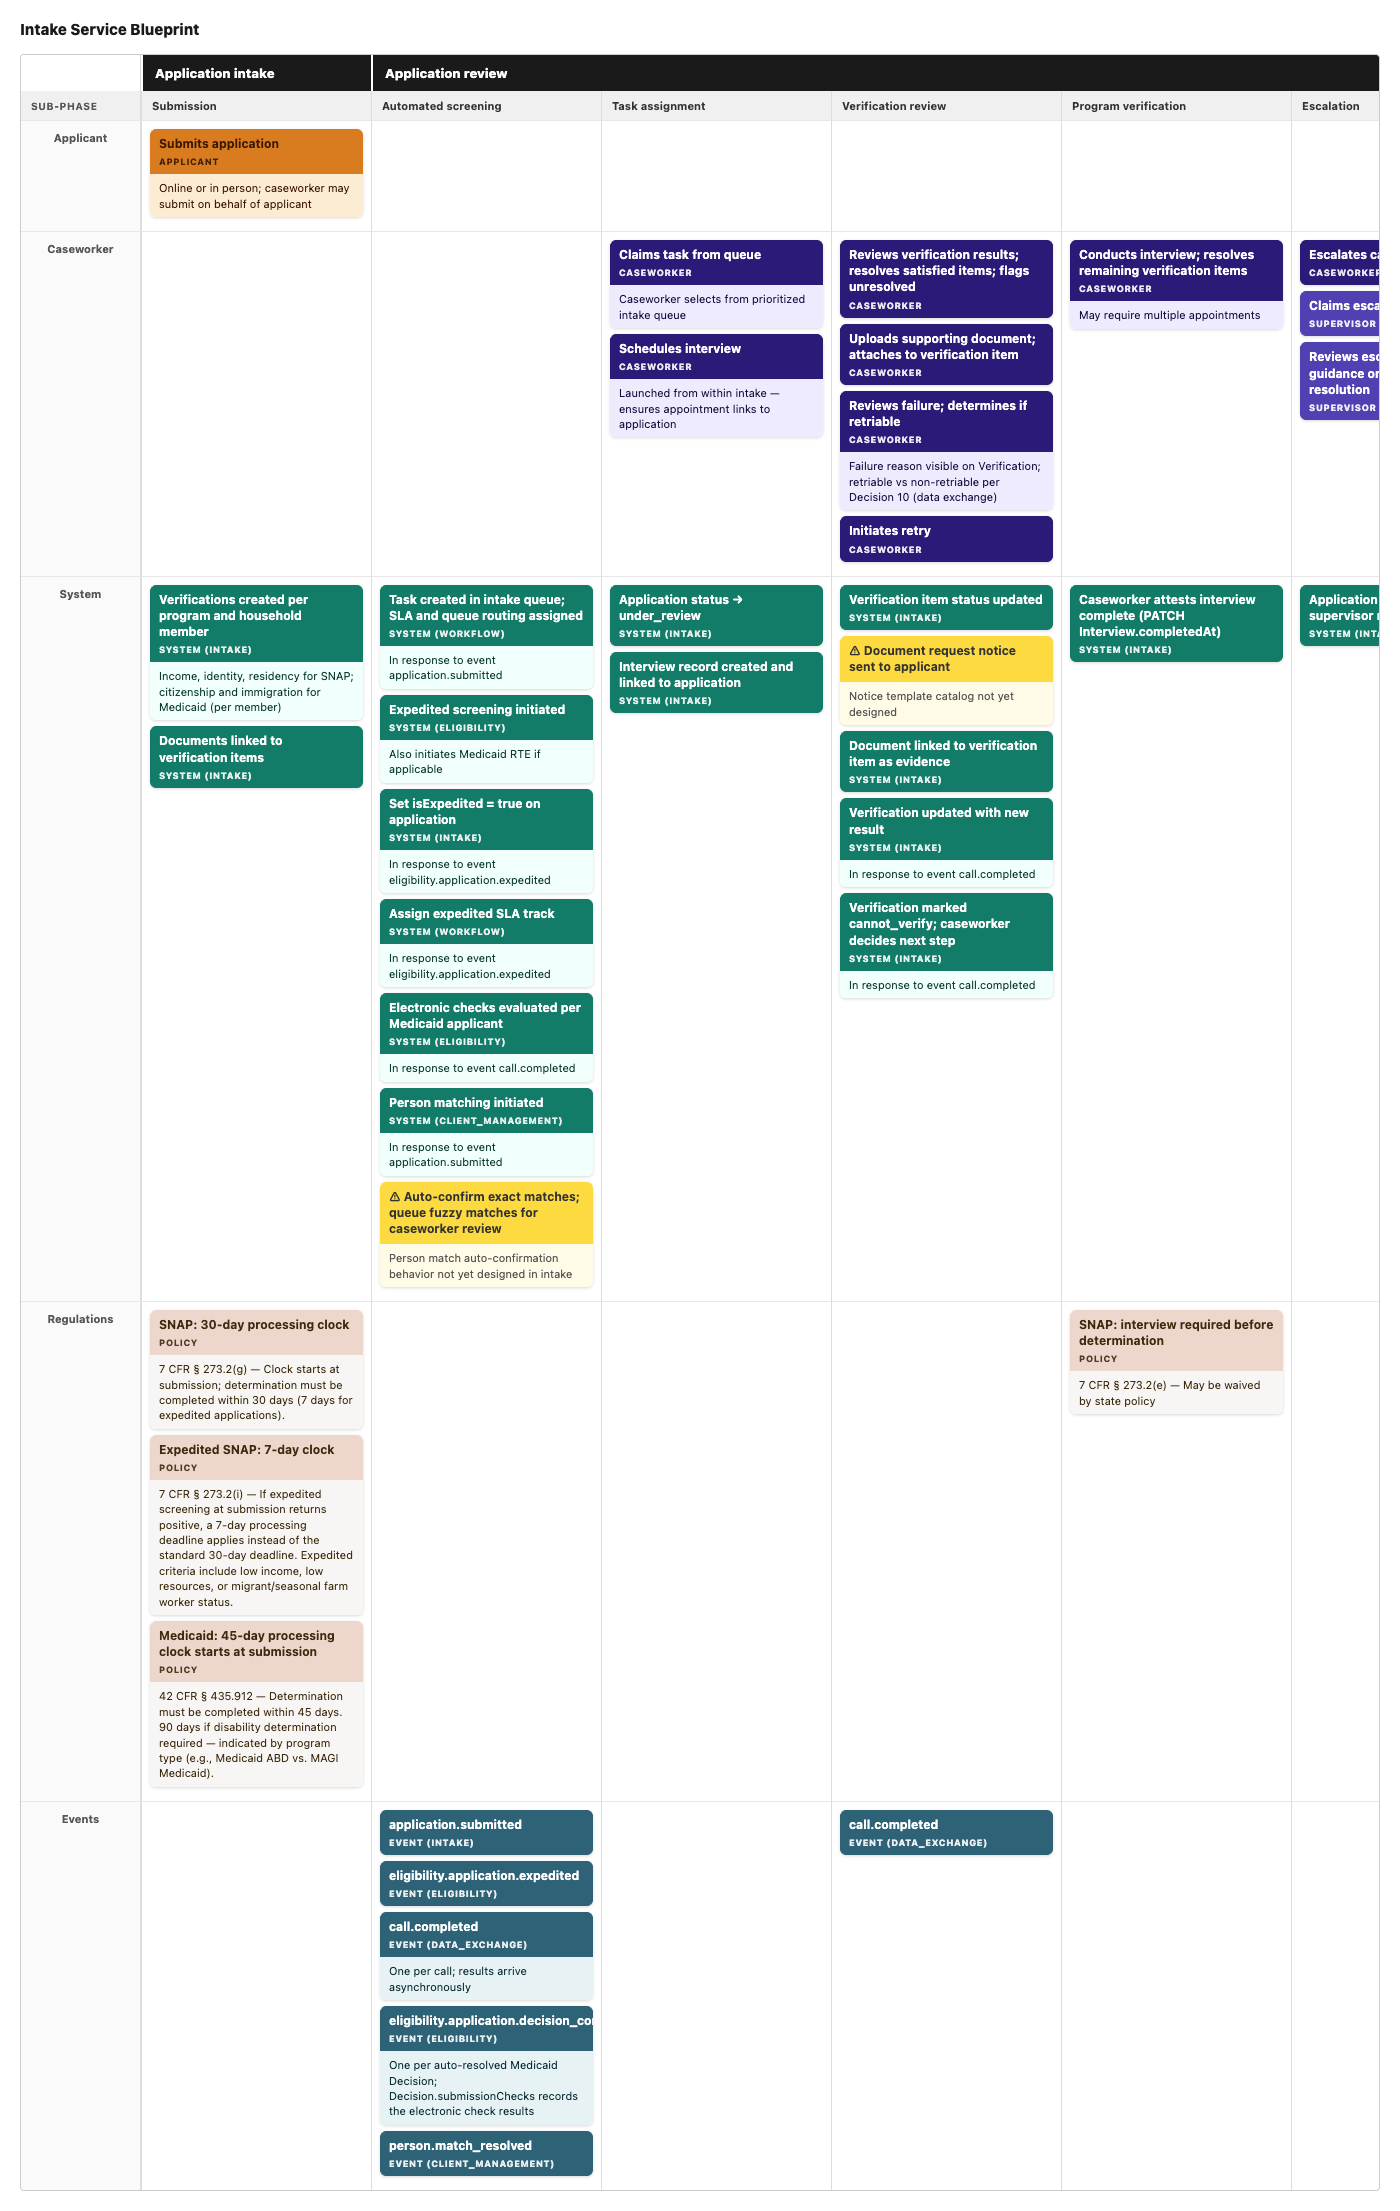
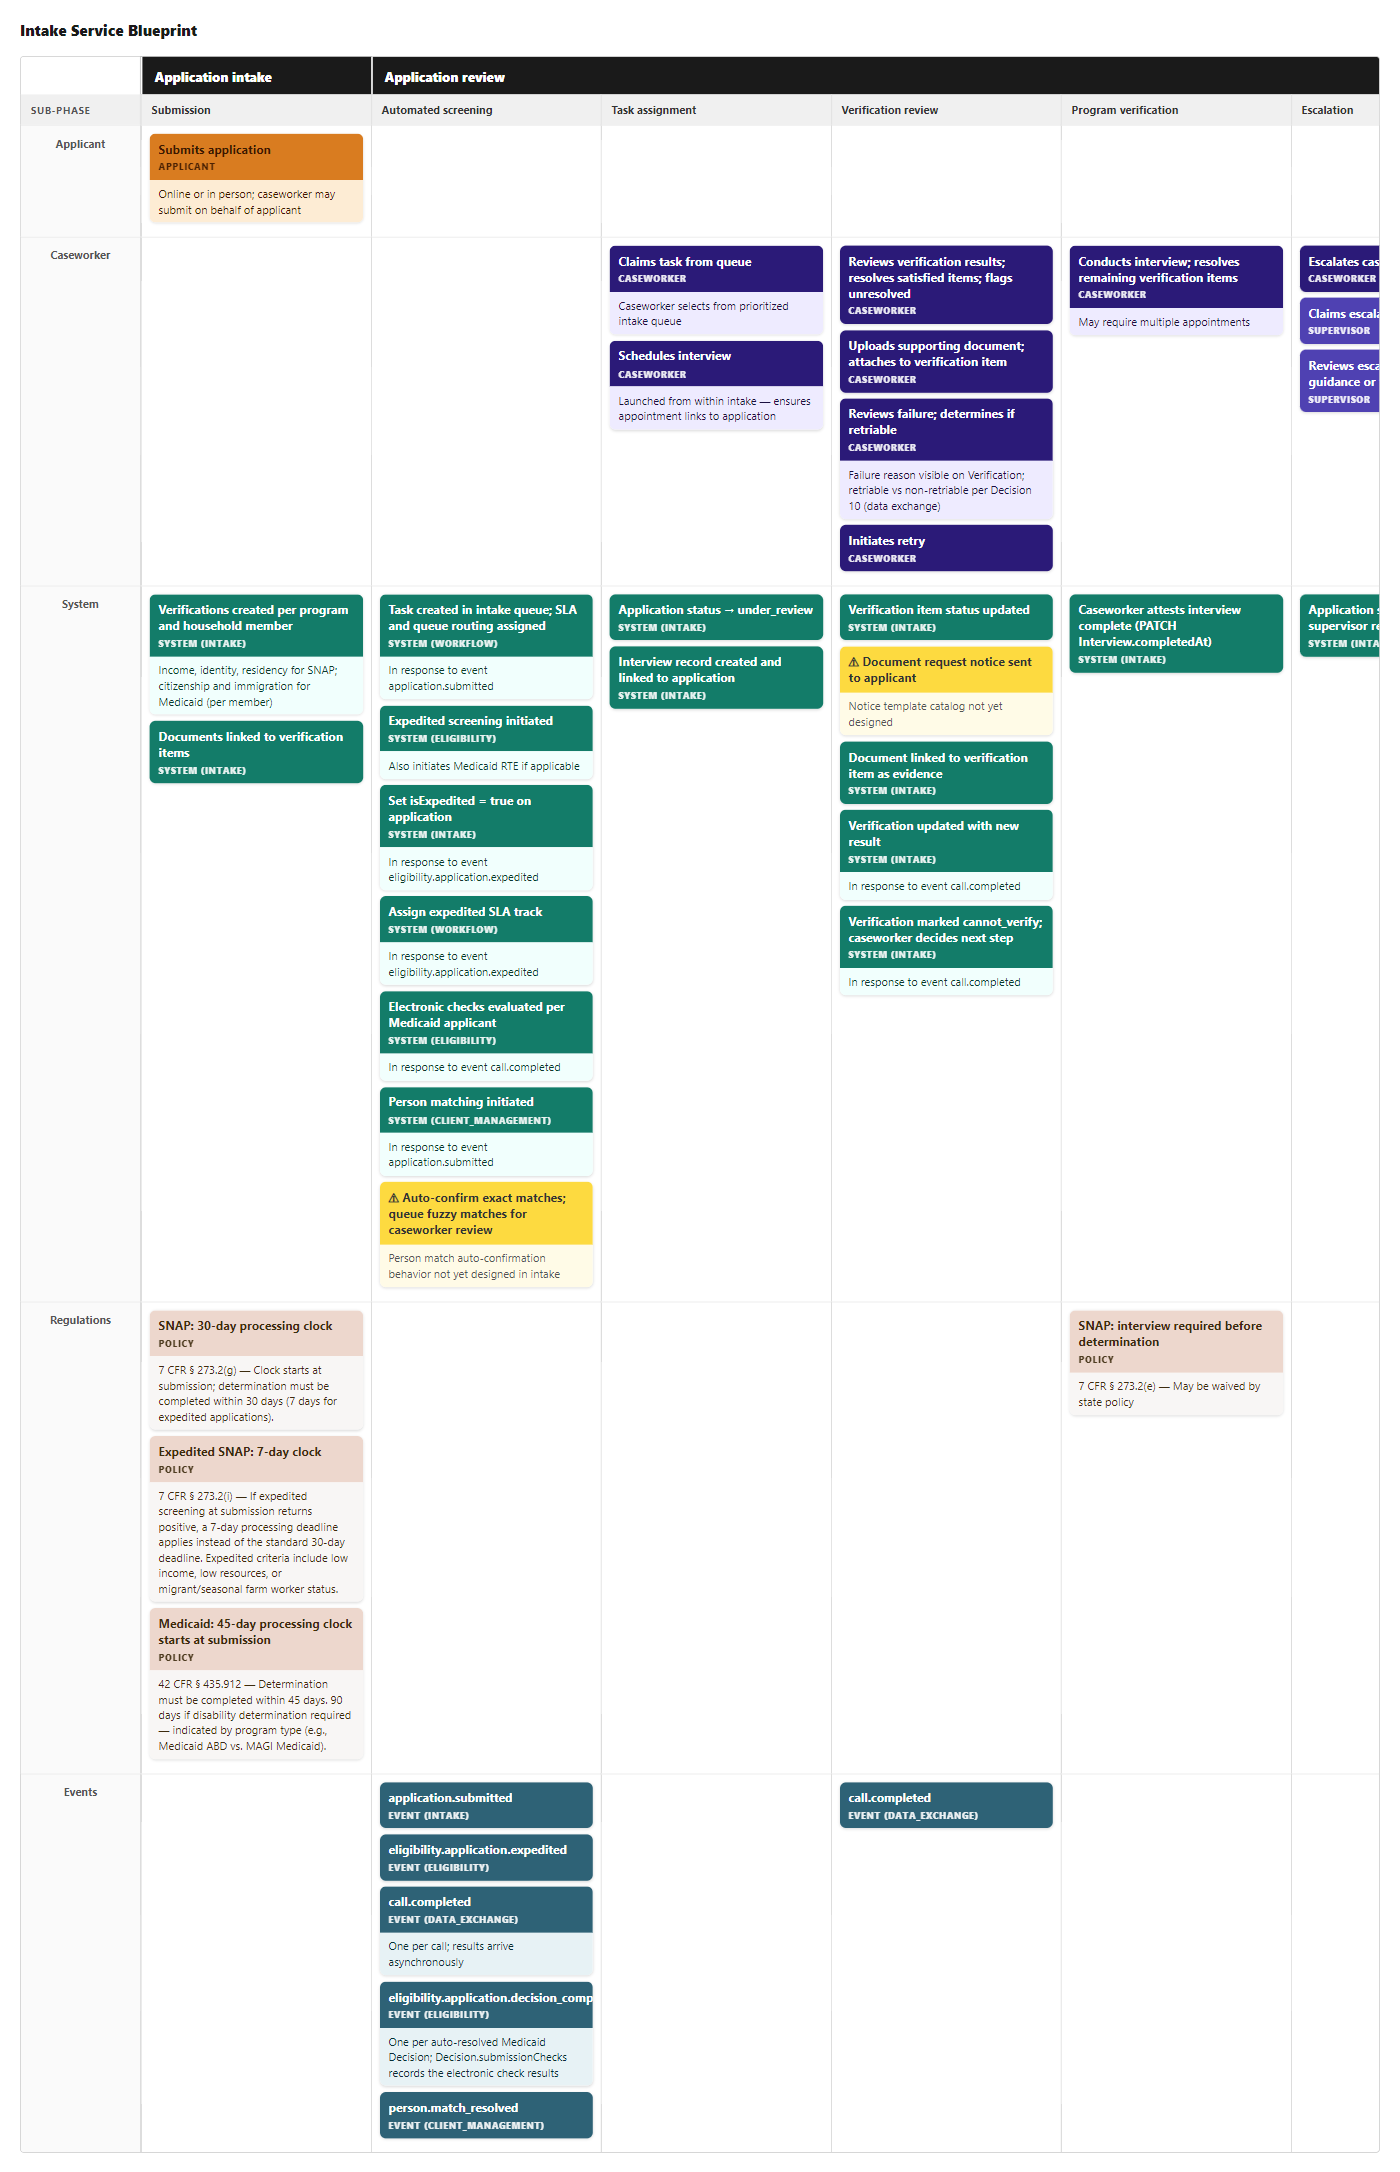
Fix traceparent and causationid not propagated through event subscriptions
- Forward event.traceparent from executePendingOperation to executeTransition,
  emitEvent, and emitEventEnvelope for all events emitted by subscription handlers
- Set causationid to the triggering event's id on all subscription-emitted events
- Add causationid param to emitEvent and executeTransition
- Add integration test: traceparent propagates to workflow.task.created on submit,
  causationid links back to intake.application.submitted

Closes #327

diff --git a/packages/mock-server/tests/integration/intake-regression.test.js b/packages/mock-server/tests/integration/intake-regression.test.js
@@ -1334,6 +1334,45 @@ async function testPostSubmissionAdditions() {
 }
 
 // ---------------------------------------------------------------------------
+// Traceparent propagation
+// ---------------------------------------------------------------------------
+
+async function testTraceparentPropagation() {
+  section('Traceparent propagation through event subscriptions');
+
+  const TRACEPARENT = '00-4bf92f3577b34da6a3ce929d0e0e4736-00f067aa0ba902b7-01';
+  const TRACEID = '4bf92f3577b34da6a3ce929d0e0e4736';
+
+  await test('traceparent propagates from submit to downstream workflow.task.created event', async () => {
+    const create = await fetch(`${BASE_URL}${APP}`, {
+      method: 'POST', headers: APPLICANT,
+      body: { programs: ['snap'], channel: 'online' },
+    });
+    const app = await create.json();
+
+    await fetch(`${BASE_URL}${APP}/${app.id}/submit`, {
+      method: 'POST',
+      headers: { ...APPLICANT, traceparent: TRACEPARENT },
+    });
+
+    const eventsRes = await fetch(`${BASE_URL}/platform/events?traceid=${TRACEID}`);
+    assert.strictEqual(eventsRes.status, 200);
+    const { items } = await eventsRes.json();
+
+    const types = items.map(e => e.type);
+    assert.ok(types.some(t => t === 'intake.application.submitted'), `Expected intake.application.submitted, got: ${types.join(', ')}`);
+    assert.ok(types.some(t => t === 'workflow.task.created'), `Expected workflow.task.created in traceid chain, got: ${types.join(', ')}`);
+    assert.ok(items.every(e => e.traceparent === TRACEPARENT), 'All events in chain must carry the original traceparent');
+
+    const submittedEvent = items.find(e => e.type === 'intake.application.submitted');
+    const taskCreatedEvent = items.find(e => e.type === 'workflow.task.created');
+    assert.ok(submittedEvent, 'intake.application.submitted event must exist');
+    assert.ok(taskCreatedEvent, 'workflow.task.created event must exist');
+    assert.strictEqual(taskCreatedEvent.causationid, submittedEvent.id, 'workflow.task.created must set causationid to the id of intake.application.submitted');
+  });
+}
+
+// ---------------------------------------------------------------------------
 // Main
 // ---------------------------------------------------------------------------
 
@@ -1381,6 +1420,7 @@ async function runTests() {
     await testReviewContext();
     await testReviewProgress();
     await testApplicationNotes();
+    await testTraceparentPropagation();
   } finally {
     await teardownServer(serverStartedByTests);
   }

diff --git a/packages/mock-server/src/event-subscription.js b/packages/mock-server/src/event-subscription.js
@@ -48,7 +48,7 @@ function findSmEntryForCollection(allStateMachines, domain, collection) {
  * Execute a pending operation trigger (invoke: { POST: domain/collection/{id}/operation }).
  * The path is fully interpolated: domain/collection/uuid/operation.
  */
-function executePendingOperation({ path, body }, now, allStateMachines, allSlaTypes, caller) {
+function executePendingOperation({ path, body }, now, allStateMachines, allSlaTypes, caller, traceparent = null, causationid = null) {
   const parts = path.split('/');
   if (parts.length < 4) {
     console.error(`executePendingOperation: path "${path}" must have at least 4 segments`);
@@ -77,6 +77,8 @@ function executePendingOperation({ path, body }, now, allStateMachines, allSlaTy
       machine: smEntry.machine,
       slaTypes: allSlaTypes,
       requestBody: body || {},
+      traceparent,
+      causationid,
       now,
     });
   } catch (e) {
@@ -228,6 +230,8 @@ export function registerEventSubscriptions(allStateMachines, allSlaTypes = [], a
               source: `/${entDomain || smEntry.domain}`,
               data: { ...created },
               callerId: 'system',
+              traceparent: event.traceparent,
+              causationid: event.id,
               now,
             });
           } catch (e) {
@@ -247,7 +251,7 @@ export function registerEventSubscriptions(allStateMachines, allSlaTypes = [], a
         // Handle operation triggers
         for (const op of pendingOperations) {
           try {
-            executePendingOperation(op, now, allStateMachines, allSlaTypes, caller);
+            executePendingOperation(op, now, allStateMachines, allSlaTypes, caller, event.traceparent, event.id);
           } catch (e) {
             console.error(`onEvent operation failed for "${op.path}":`, e.message);
           }
@@ -268,7 +272,7 @@ export function registerEventSubscriptions(allStateMachines, allSlaTypes = [], a
             );
             for (const op of procOps) {
               try {
-                executePendingOperation(op, now, allStateMachines, allSlaTypes, caller);
+                executePendingOperation(op, now, allStateMachines, allSlaTypes, caller, event.traceparent, event.id);
               } catch (e) {
                 console.error(`onEvent procedure operation failed for "${op.path}":`, e.message);
               }
@@ -299,6 +303,8 @@ export function registerEventSubscriptions(allStateMachines, allSlaTypes = [], a
               source: `/${domain}`,
               subject: evt.subject ?? subjectId,
               data: evt.data || null,
+              traceparent: event.traceparent,
+              causationid: event.id,
               time: now,
             });
           } catch (e) {

diff --git a/packages/mock-server/src/emit-event.js b/packages/mock-server/src/emit-event.js
@@ -53,11 +53,12 @@ export function emitEventEnvelope(envelope) {
  * @param {string} options.source      - Domain base path (e.g., '/workflow')
  * @param {Object|null} [options.data] - Event payload. Defaults to null.
  * @param {string|null} [options.callerId]    - X-Caller-Id from request header
- * @param {string|null} [options.traceparent] - W3C traceparent header, if present
+ * @param {string|null} [options.traceparent]  - W3C traceparent header, if present
+ * @param {string|null} [options.causationid]  - CloudEvents causation extension: id of the triggering event
  * @param {string|null} [options.now]  - ISO timestamp. Defaults to current time.
  * @returns {Object} The stored event record
  */
-export function emitEvent({ domain, object, action, resourceId, subject, source, data = null, callerId = null, traceparent = null, now = null }) {
+export function emitEvent({ domain, object, action, resourceId, subject, source, data = null, callerId = null, traceparent = null, causationid = null, now = null }) {
   const timestamp = now || new Date().toISOString();
   const normalizedDomain = domain.replace(/-/g, '_');
   const normalizedObject = object.replace(/-/g, '_');
@@ -72,6 +73,7 @@ export function emitEvent({ domain, object, action, resourceId, subject, source,
     time: timestamp,
     datacontenttype: 'application/json',
     traceparent: traceparent || null,
+    causationid: causationid || undefined,
     data: data ?? null,
   };
 

diff --git a/packages/mock-server/src/state-machine-runner.js b/packages/mock-server/src/state-machine-runner.js
@@ -27,6 +27,7 @@ import { validate } from './validator.js';
  * @param {Array}  [options.slaTypes]       - SLA types from discoverSlaTypes()
  * @param {Object} [options.requestBody]     - Request body passed to effects as $request.*; empty for system transitions
  * @param {string} [options.traceparent]    - W3C traceparent for distributed tracing
+ * @param {string} [options.causationid]    - CloudEvents causation extension: id of the triggering event
  * @returns {{ success: boolean, result?: Object, status?: number, error?: string }}
  */
 export function executeTransition({
@@ -40,7 +41,8 @@ export function executeTransition({
   machine,
   slaTypes = [],
   requestBody = {},
-  traceparent = null
+  traceparent = null,
+  causationid = null
 }) {
   const timestamp = now || new Date().toISOString();
 
@@ -153,7 +155,7 @@ export function executeTransition({
         data: event.data || null,
         time: timestamp,
         traceparent,
-        causationid: event.causationid || undefined,
+        causationid: event.causationid || causationid || undefined,
       });
     } catch (e) {
       console.error(`Failed to emit event "${event.type}":`, e.message);